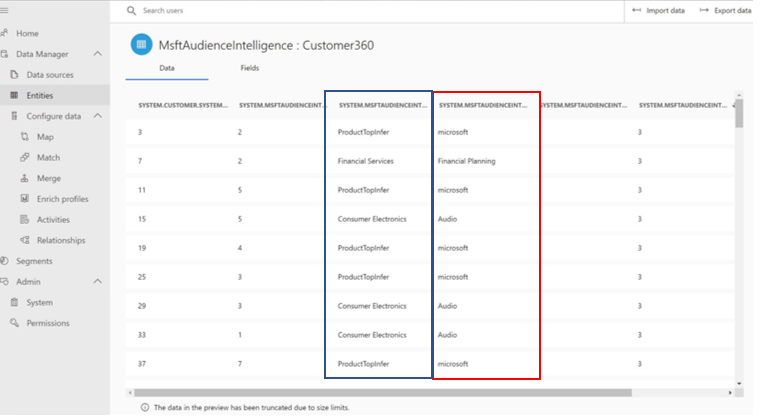
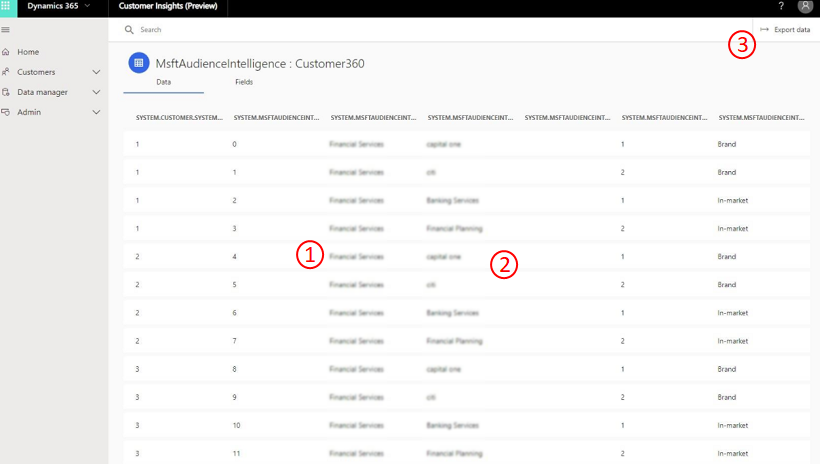
images

diff --git a/ai-docs/customer-insights/pm-enrichment.md b/ai-docs/customer-insights/pm-enrichment.md
@@ -72,7 +72,7 @@ First, choose one of the following options (also highlighted in the preceding im
 
 <!--note from editor:  Below--"go to the keywords field"? -->
 
-To add a brand or interest, type the keywords field (highlighted in blue above) and then type the keyword. If that keyword matches a brand or interest name in the Microsoft database, it will be saved. You can save up to five selections. If there is no match, you will get the following notice, which you can use to send a suggestion to the Customer Insights team.
+To add a brand or interest, type the keywords field (highlighted above) and then type the keyword. If that keyword matches a brand or interest name in the Microsoft database, it will be saved. You can save up to five selections. If there is no match, you will get the following notice, which you can use to send a suggestion to the Customer Insights team.
 
   > [!div class="mx-imgBorder"] 
   > ![](media/configure-data-enrich-profile-suggest-brand.png "Enrich profiles suggest brand")
@@ -81,9 +81,7 @@ To add a brand or interest, type the keywords field (highlighted in blue above) 
   
 ### Run the enrichment process
 
-This can be done via **Run** at the top of the screen (shown in red).
-
-// 1 <!-- in the image to come below, mark "save" with "1", "Run" with "2" and "Discard" with "3"-->
+This can be done via **Run** at the top of the screen.
 
 > [!div class="mx-imgBorder"] 
 > ![](media/configure-data-enrich-profile-choose-own.png "Enrich profiles choose own brand")
@@ -93,7 +91,7 @@ You'll see the following page as long as the enrichment algorithm is still runni
 > [!div class="mx-imgBorder"] 
 > ![](media/configure-data-enrich-profile-enriching.png "Enrich profiles enriching")
 
-You can also use the **Discard** button to reselect your definitions and keywords (shown in blue in the preceding example).
+You can also use the **Discard** button to reselect your definitions and keywords.
 
 ### Validate the enrichment process output
 
@@ -102,7 +100,7 @@ If the enrichment process succeeds, you'll see the following screen.
 > [!div class="mx-imgBorder"] 
 > ![](media/configure-data-enrich-profile-succeeded.png "Enrich profiles succeeded")
 
-Use the **Enriched profiles** figure (shown in red in the preceding example) to assess your enrichment definitions and keywords, and to consider whether any of them should be reconfigured.
+Use the **Enriched profiles** figure to assess your enrichment definitions and keywords, and to consider whether any of them should be reconfigured.
 
 If the enrichment process fails, you'll find the reason for that failure at top of the screen.
 
@@ -116,28 +114,24 @@ Upon the completion of the enrichment process, you have unlocked additional info
 
 **1. Explore affinities histograms on the home page.**
 
-// 2 <!-- replace red color with 1 and blue color with 2. Also please blur my name that appears in large in this image - thanks!-->
-
 > [!div class="mx-imgBorder"] 
 > ![](media/enrichment-affinities-histogram.png "Enrich affinities histograms")
 
-This can be done within the **Insights** section (shown in red in the preceding example). The diagrams shown in blue present the top brand affinities and interests for your customer base. Note that the Y-axis in those histograms represent the number of customers who have a specific brand or category affinity.
+This can be done within the **Insights** section (shown in #1 in the preceding example). The diagrams shown in #2 present the top brand affinities and interests for your customer base. Note that the Y-axis in those histograms represent the number of customers who have a specific brand or category affinity.
 
 **2. Explore the MsftAudienceIntelligence: Customer 360 entity on the Entities page**
 
 - Go to the **Entities** page.
 - Select the **MsftAudienceIntelligence: Customer 360** entity.
 
-// 3 <!-- replace red color with 1 and blue color with 2. also please mark the last column on the right with 3. Lastly, we need to blur the data for all the other columns (only the columns with the numbers). Thanks!-->
-
 > [!div class="mx-imgBorder"] 
 > ![](media/configure-data-entities-info.png "Text")
 
-- In the preceding example, the column shown in blue presents the brands and interests that were evaluated by the enrichment algorithm.
-- The column shown in red presents the verticals to which these brands and interests belong.
+- In the preceding example, the column shown in #1 presents the brands and interests that were evaluated by the enrichment algorithm.
+- The column shown in #2 presents the verticals to which these brands and interests belong.
 - The rest of the columns specify relative affinities to these brands and interests among profiles that are similar to your customers. Note that these affinity numbers represent ranks. A rank of 1 stands for the strongest affinity, and from there, the affinity decreases as the number increases.  
 
-Lastly, you can also export this entity using the **Export** button in the upper-right corner of the screen.
+Lastly, you can also export this entity using the **Export data** button in the upper-right corner of the screen (#3).
 
 ## Next step
 You might wish to extract more insights using the **Segments**, **Customer Card**, and **Connectors** modules if you haven't done so. You might also want to define **Measures** and/or **Activities** for richer insight exploration. 
